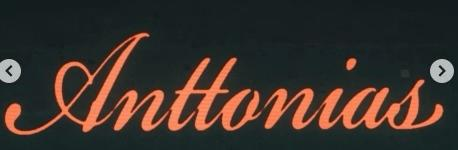
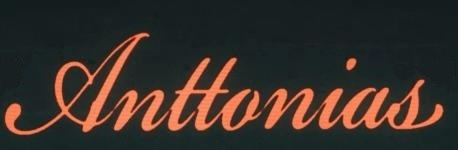
style(hero): actualizar imágenes de bandas y ajustar estilos manuales

Changed region(s): [[0.917, 0.3733, 1.0, 0.56], [0.0, 0.3733, 0.0611, 0.56]]

diff --git a/index.html b/index.html
@@ -88,17 +88,17 @@
         </div>
         <figure class="hero-media hero-carousel">
           <div class="hero-slides">
-            <picture class="hero-slide" data-image="assets/img/salaEnsayo">
-              <source srcset="assets/img/salaEnsayo.webp" type="image/webp" />
-              <img src="assets/img/salaEnsayo.png" alt="Sala de ensayo Espacio Teodosa lista para tocar" width="1200" height="800" fetchpriority="high" />
+            <picture class="hero-slide slide-banda" data-image="assets/img/salaEnsayo">
+              <source srcset="assets/img/salaEnsayo3.webp" type="image/jpeg" />
+              <img src="assets/img/salaEnsayo3.webp" alt="Sala de ensayo Espacio Teodosa lista para tocar" width="1200" height="800" fetchpriority="high" />
             </picture>
             <picture class="hero-slide slide-banda" data-image="assets/img/logo-banda1">
-              <source srcset="assets/img/clutterPastiche.png" type="image/png" />
-              <img src="assets/img/clutterPastiche.png" alt="Logo de banda Clutter Pastiche" width="1200" height="800" />
+              <source srcset="assets/img/salaEnsayo4.webp" type="image/png" />
+              <img src="assets/img/salaEnsayo4.webp" alt="Logo de banda Clutter Pastiche" width="1200" height="800" />
             </picture>
             <picture class="hero-slide slide-banda" data-image="assets/img/logo-banda2">
-              <source srcset="assets/img/jappyCumbia.PNG" type="image/png" />
-              <img src="assets/img/jappyCumbia.PNG" alt="Logo de banda Jappy Cumbia" width="1200" height="800" />
+              <source srcset="assets/img/salaEnsayo2.webp" type="image/png" />
+              <img src="assets/img/salaEnsayo2.webp" alt="Logo de banda Jappy Cumbia" width="1200" height="800" />
             </picture>
           </div>
           <div class="hero-dots" aria-hidden="true">
@@ -204,33 +204,30 @@
 
     <section id="galeria" class="section">
       <div class="container">
-        <h2>Galeria del espacio</h2>
+        <h2>Galeria del espacio y bandas amigas</h2>
         <p class="section-intro">Vista real de la sala y configuraciones de trabajo.</p>
         <div class="gallery-carousel" aria-label="Carrusel de imagenes de la sala">
           <button type="button" class="gallery-nav gallery-nav-prev" aria-label="Imagen anterior">
             <span aria-hidden="true">‹</span>
           </button>
           <div class="gallery-track">
-            <button type="button" class="gallery-item" data-lightbox="assets/img/salaEnsayo3.webp" data-alt="Grabación setup completo" aria-label="Ampliar imagen description">
-              <img src="assets/img/salaEnsayo3.webp" alt="Grabación setup completo" loading="lazy" width="800" height="533" />
-            </button>
-            <button type="button" class="gallery-item" data-lightbox="assets/img/salaEnsayo.webp" data-alt="Vista general de sala de ensayo" aria-label="Ampliar imagen vista general de sala de ensayo">
-              <img src="assets/img/salaEnsayo.webp" alt="Vista general de sala de ensayo" loading="lazy" width="800" height="533" />
-            </button>
-            <button type="button" class="gallery-item" data-lightbox="assets/img/salaEnsayo4.webp" data-alt="Iluminación profesional durante grabación" aria-label="Ampliar imagen description">
-              <img src="assets/img/salaEnsayo4.webp" alt="Iluminación profesional durante grabación" loading="lazy" width="800" height="533" />
+            <button type="button" class="gallery-item" data-lightbox="assets/img/salaEnsayo5.webp" data-alt="Grabación setup completo" aria-label="Ampliar imagen description">
+              <img src="assets/img/salaEnsayo5.webp" alt="Grabación setup completo" loading="lazy" width="800" height="533" />
             </button>
             <button type="button" class="gallery-item" data-lightbox="assets/img/salaEnsayo6.webp" data-alt="Setup para ensayo de banda" aria-label="Ampliar imagen setup para ensayo de banda">
               <img src="assets/img/salaEnsayo6.webp" alt="Setup para ensayo de banda" loading="lazy" width="800" height="533" />
             </button>
-             <button type="button" class="gallery-item" data-lightbox="assets/img/salaEnsayo2.webp" data-alt="Grabación zona de baterias" aria-label="Ampliar imagen description">
-              <img src="assets/img/salaEnsayo2.webp" alt="Grabación zona de baterias" loading="lazy" width="800" height="533" />
+            <button type="button" class="gallery-item" data-lightbox="assets/img/salaEnsayo7.webp" data-alt="Vista general de sala de ensayo" aria-label="Ampliar imagen vista general de sala de ensayo">
+              <img src="assets/img/salaEnsayo7.webp" alt="Vista general de sala de ensayo" loading="lazy" width="800" height="533" />
             </button>
-            <button type="button" class="gallery-item" data-lightbox="assets/img/salaEnsayo5.webp" data-alt="Zona de baterias y microfonos" aria-label="Ampliar imagen zona de baterias y microfonos">
-              <img src="assets/img/salaEnsayo5.webp" alt="Zona de baterias y microfonos" loading="lazy" width="800" height="533" />
+             <button type="button" class="gallery-item" data-lightbox="assets/img/clutterPasticheBlanco.png" data-alt="Banda amiga Clutter Pastiche" aria-label="Ampliar imagen description">
+              <img src="assets/img/clutterPasticheBlanco.png" alt="Banda amiga Clutter Pastiche" loading="lazy" width="800" height="533" />
             </button>
-            <button type="button" class="gallery-item gallery-item-video" data-video="assets/img/recorridoSala.mp4" data-alt="Recorrido por la sala" aria-label="Reproducir video description">
-              <img src="assets/img/recorridoSala.mp4" alt="Recorrido por la sala" loading="lazy" width="800" height="533" />
+            <button type="button" class="gallery-item" data-lightbox="assets/img/jappyCumbia.PNG" data-alt="Banda amiga Jappy Cumbia" aria-label="Ampliar imagen description">
+              <img src="assets/img/jappyCumbia.PNG" alt="Banda amiga Clutter Pastiche" loading="lazy" width="800" height="533" />
+            </button>
+            <button type="button" class="gallery-item" data-lightbox="assets/img/anttoniasBanda.jpeg" data-alt="Banda amiga Anttonias" aria-label="Ampliar imagen description">
+              <img src="assets/img/anttoniasBanda.jpeg" alt="Banda amiga Anttonias" loading="lazy" width="800" height="533" />
             </button>
           </div>
           <button type="button" class="gallery-nav gallery-nav-next" aria-label="Imagen siguiente">

diff --git a/css/style.css b/css/style.css
@@ -400,14 +400,17 @@ p {
   position: relative;
   width: 100%;
   overflow: hidden;
+  display: flex;
+  justify-content: center;
 }
 
 .hero-slide {
   position: absolute;
   inset: 0;
   opacity: 0;
-  transition: opacity 0.8s ease-in-out;
-  aspect-ratio: 3 / 2;
+  transition: opacity 1.5s ease-in-out;
+  display: flex;
+  justify-content: center;
 }
 
 .hero-slide.slide-banda {
@@ -415,8 +418,8 @@ p {
 }
 
 .hero-slide.slide-banda img {
-  object-fit: contain; /* Muestra el logo completo sin recortarlo */
-  padding: 24px;       /* Le da un margen interno elegante para que no toque los bordes */
+  object-fit:cover; /* Muestra el logo completo sin recortarlo */
+  padding: 0px;       /* Le da un margen interno elegante para que no toque los bordes */
   width: 100%;
   height: 100%;
 }
@@ -451,7 +454,7 @@ p {
   border-radius: 50%;
   background: rgba(249, 244, 239, 0.4);
   cursor: pointer;
-  transition: background-color 0.8s ease, transform 0.8s ease;
+  transition: background-color 1.5s ease, transform 1.5s ease;
 }
 
 .hero-dot.active {
@@ -459,11 +462,14 @@ p {
   transform: scale(1.25);
 }
 
-.hero-slide img, 
-.hero-slide picture {
+.hero-slide img {
   display: block;
-  width: 100%;
-  height: 100%;
+  width: auto;
+  max-width: 100%;
+  height: auto;
+  max-height: 100%;
+
+
 }
 
 .cta-row {

diff --git a/js/scripts.js b/js/scripts.js
@@ -23,7 +23,7 @@ document.addEventListener("DOMContentLoaded", () => {
 
   const startHeroAutoplay = () => {
     if (heroSlides.length > 1) {
-      heroAutoplayInterval = setInterval(nextHeroSlide, 3500);
+      heroAutoplayInterval = setInterval(nextHeroSlide, 6000);
     }
   };
 
